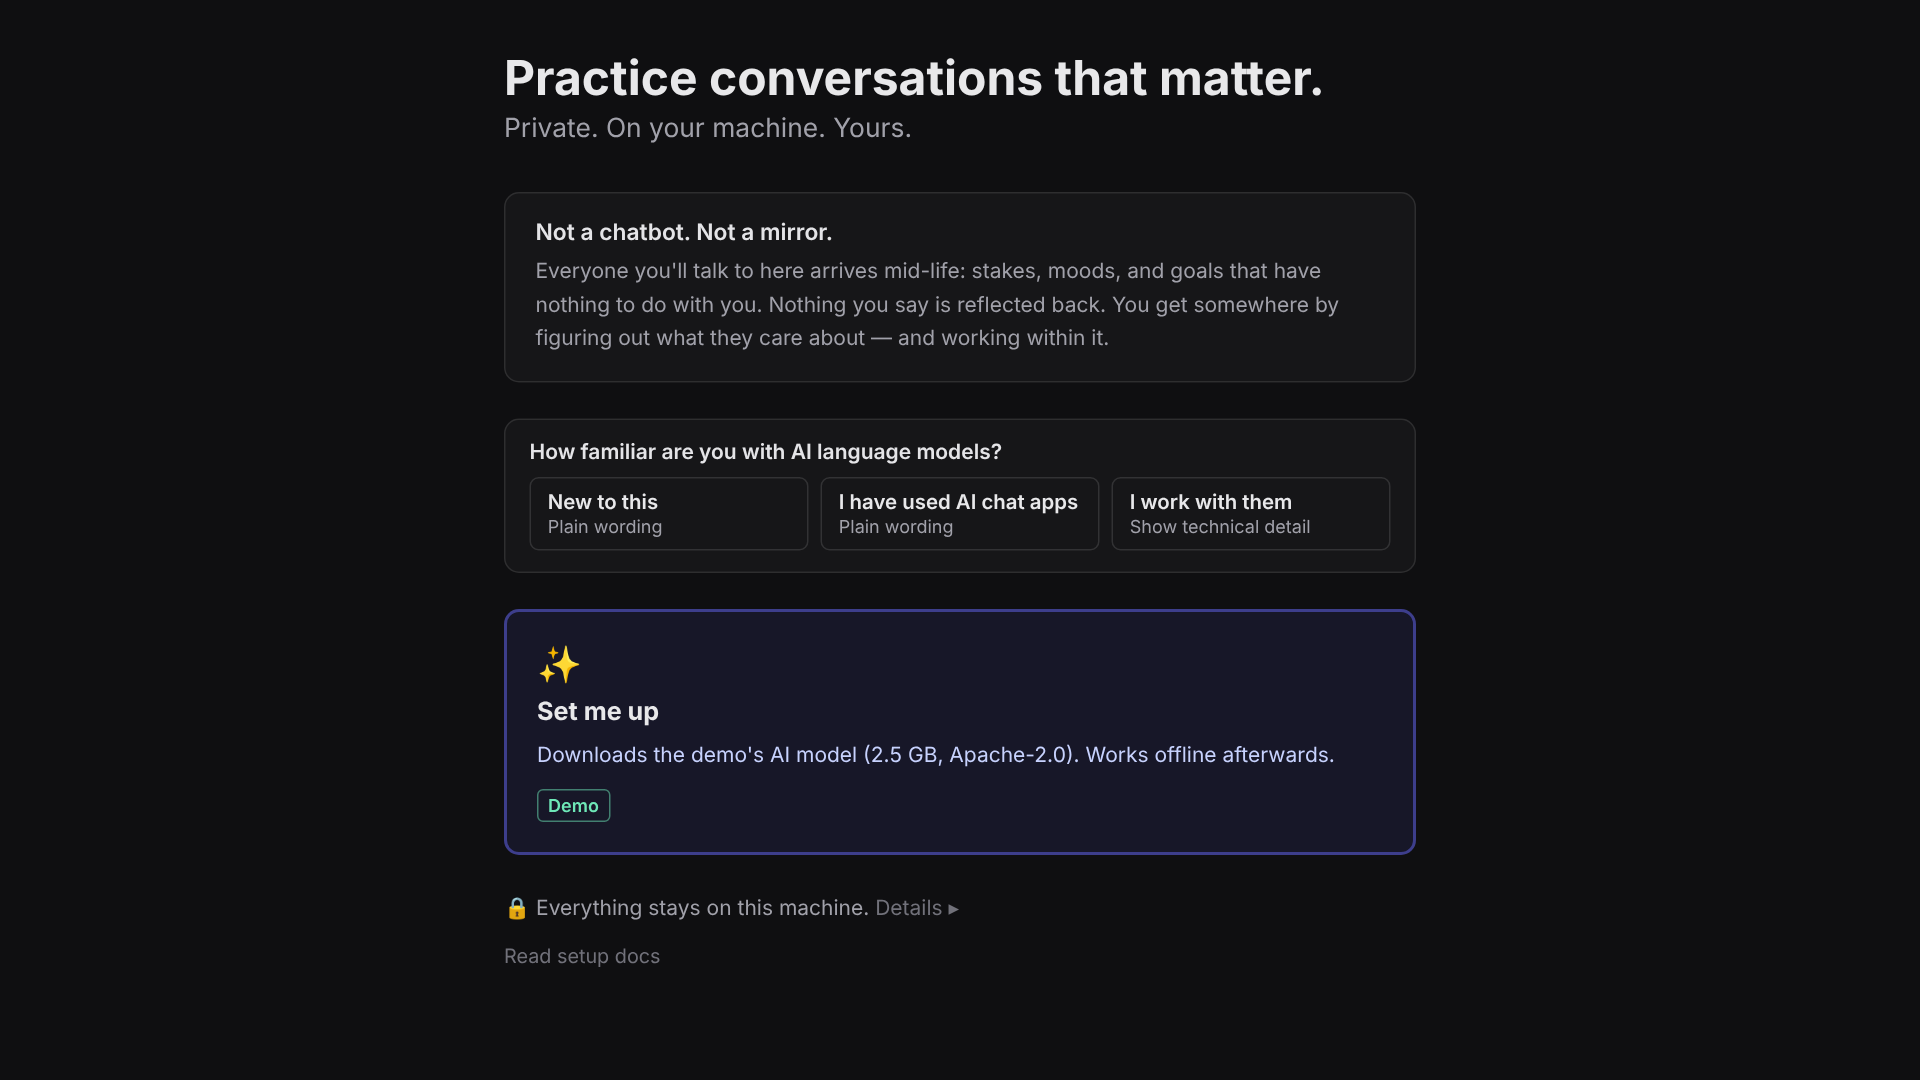
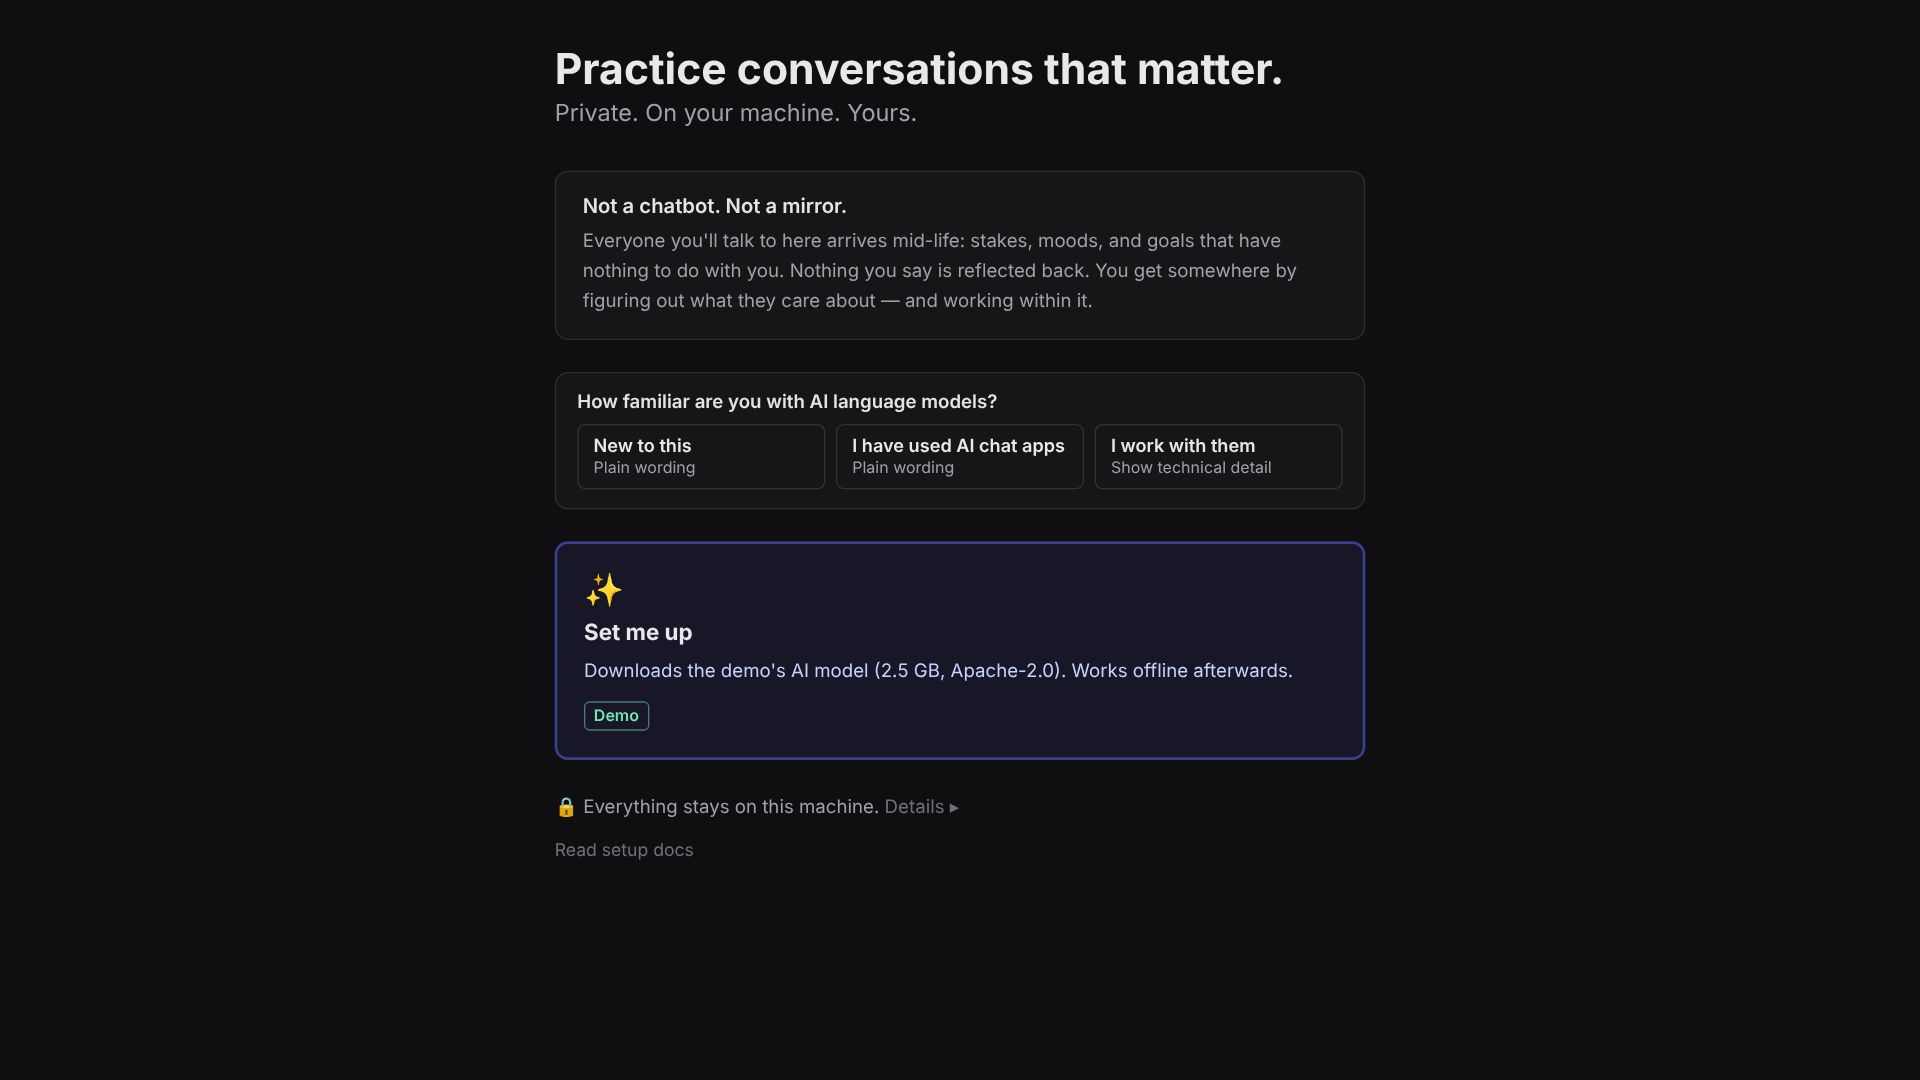
The demo store page's five screenshots, from a demo-edition build (#579)
Five 1920 x 1080 frames for the demo app's Steam store page (STEAM_NEXT_FEST_DEMO.md §4.2), shot by scripts/capture-store-screenshots.mjs against a demo-edition engine on a fresh profile: the first-run Set me up screen, the five-conversation Home, the Coffee at Café Sol brief, The Behavioral Interview mid-session and its debrief. 05's telemetry shows the capture machine's latency; the runbook says to re-shoot it on reference hardware before upload.

Claude-Session: https://claude.ai/code/session_012TY6dJCgPojbeaSZ2v9WEg

diff --git a/publishing/STEAM_NEXT_FEST_DEMO.md b/publishing/STEAM_NEXT_FEST_DEMO.md
@@ -31,7 +31,7 @@
 | Build source | `release.yml` → **Run workflow** → `edition: demo`, from an existing release tag |
 | Upload | `steam-deploy.yml` with `edition: demo` (chained automatically from the demo build) |
 | Payload | Same depot layout as the base app; the binaries are compiled as the demo edition |
-| Store assets | Its own App Icon, Shortcut Icon and Mac Icon (purple plate + "DEMO" ribbon) and its own capsule and library set on the same plate with the same ribbon, all generated and committed, the capsules still to be uploaded (§4.2); demo-edition screenshots; base trailer |
+| Store assets | Its own App Icon, Shortcut Icon and Mac Icon (purple plate + "DEMO" ribbon) and its own capsule and library set on the same plate with the same ribbon, all generated and committed, the capsules still to be uploaded (§4.2); five demo-edition screenshots committed, still to be uploaded (05 to be re-shot on reference hardware first); base trailer |
 | Next Fest target | First edition whose registration is open ≥ 6 weeks after the demo gate passes (see [Timeline](#52-next-fest-timeline)) |
 
 ---
@@ -256,7 +256,7 @@ verbatim. The rules that matter most:
 | **Mac Icon** (`.icns`) | `apps/desktop/src-tauri/icons-demo/icon.icns` from the bundle set, uploaded unchanged in the **Mac Icon** field on the same page. Without it a macOS desktop shortcut gets a default Steam logo. |
 | App icon in the build | `apps/desktop/src-tauri/icons-demo/`, referenced by `bundle.icon` in `tauri.demo.conf.json`. Same mark as the Steamworks icons, so the store entry and the installed app agree in the dock, the taskbar and Alt-Tab. |
 | Header, small, main, vertical and library capsules, library hero and logo | **Generated and committed; upload outstanding** (issue #551 — without them the demo's library entry and store presence render blank). `publishing/assets/capsules/demo/`, from `python3 publishing/assets/source/gen_capsules.py --edition demo`: the base capsules on the demo icon's purple plate, with the player bubble white as on the icon and the icon's **"DEMO"** ribbon (`ribbon_shapes()` in `gen_icons.py`) in the lower-right corner. Upload on **Steamworks → the demo app (5343430) → Store Presence → Graphical Assets**: under **Store Assets**, `header_capsule.png` (920 × 430) → Header Capsule, `small_capsule.png` (462 × 174) → Small Capsule, `main_capsule.png` (1232 × 706) → Main Capsule, `vertical_capsule.png` (748 × 896) → Vertical Capsule; under **Library Assets**, `library_capsule.png` (600 × 900) → Library Capsule, `library_header.png` (920 × 430) → Library Header, `library_hero.png` (3840 × 1240) → Library Hero, `library_logo.png` (1280 × 720, transparent) → Library Logo, placed over the hero as on the full game. This is a partner-portal user's job (access to the demo app), and the store-presence changes are live only once published. Per-asset paths and fields are tabulated in [`STEAM_ASSETS_SPEC.md` — Production](STEAM_ASSETS_SPEC.md#production). The hero has no ribbon (Valve: no text on the hero) and the logo none (no corner; Steam shows the app's name). No page background for the demo: it is optional, and the full game's is the one to use if wanted. Store-asset rules are unchanged (artwork + name only, no taglines); "Demo" is part of this app's name. |
-| Screenshots (min 5) | Taken from a **demo build**: the demo Home (five cards), the first-run "Set me up" screen, one conversation mid-session, one debrief with scores, the Coffee at Café Sol card. Nothing that the demo cannot reach. Production rules in [`STEAM_ASSETS_SPEC.md`](STEAM_ASSETS_SPEC.md#screenshot-production-rules) apply. |
+| Screenshots (min 5) | Taken from a **demo build**, nothing the demo cannot reach. Five are committed under `publishing/assets/screenshots/demo/`, 1920 × 1080, made by `scripts/capture-store-screenshots.mjs` against a demo-edition engine on a fresh profile with the starter model: `01-first-run.png` (the "Set me up" screen), `02-home.png` (the five conversations), `03-cafe-sol-brief.png` (Coffee at Café Sol's Conversation Brief), `04-conversation.png` (The Behavioral Interview three exchanges in, meters moving) and `05-debrief.png` (its scored debrief). **Before uploading 05, re-shoot it on the reference hardware:** its Telemetry panel shows the capture machine's response latency (a median of 79 s on a four-core VM with no graphics card), which no player on the recommended tier sees. Upload under Steamworks → the demo app (5343430) → Store Presence → Screenshots. Production rules in [`STEAM_ASSETS_SPEC.md`](STEAM_ASSETS_SPEC.md#screenshot-production-rules) apply. |
 | Trailer | The base trailer, unchanged. |
 
 ### 4.3 Content questionnaire and IARC

diff --git a/publishing/STEAM_ASSETS_SPEC.md b/publishing/STEAM_ASSETS_SPEC.md
@@ -38,7 +38,7 @@ the repository; uploading to Steamworks is a separate, manual step.
 | Shortcut icon | Yes | 256 × 256 px or 512 × 512 px, `.ico` or PNG | Demo done (`publishing/assets/icons/demo_shortcut_icon.png`); base not started |
 | Mac icon | For macOS shortcuts | `.icns` | Demo done (`apps/desktop/src-tauri/icons-demo/icon.icns`); base is `apps/desktop/src-tauri/icons/icon.icns` |
 | Page background | Optional | 1438 × 810 px, JPG or PNG | Base committed (`capsules/page_background.png`); none for the demo by design — see [Demo edition](#demo-edition) |
-| Screenshots (min 5, max 20) | Yes | 1920 × 1080 px (or 1280 × 720 px min), JPG or PNG | Source captures exist (see `docs/assets/screenshots/`); re-shoot at Steam dimensions |
+| Screenshots (min 5, max 20) | Yes | 1920 × 1080 px (or 1280 × 720 px min), JPG or PNG | Demo app: five 1920 × 1080 captures committed under `screenshots/demo/` (`scripts/capture-store-screenshots.mjs`), not yet uploaded; see `STEAM_NEXT_FEST_DEMO.md` §4.2. Base app: source captures in `docs/assets/screenshots/` (2× README frames), still to be re-shot at Steam dimensions |
 | Gameplay trailer | Yes | MP4, H.264, 1920 × 1080 px, 30–120 seconds | Not started |
 
 ---
